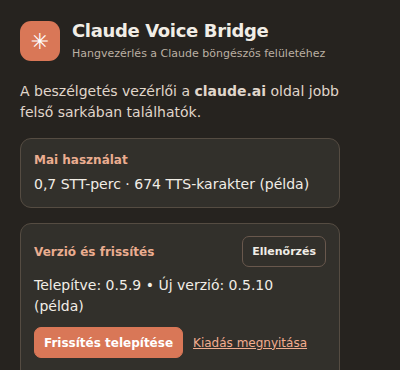
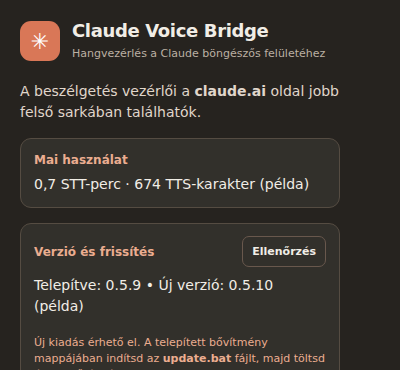
v0.5.14: remove broken native install UI, point to update.bat (#21)
* fix: explain manual local updater instead of unavailable Native Messaging

* fix: remove unusable native installer actions from popup

* docs: render new labeled HUD image [skip ci]

* fix: stop background attempts to run unavailable Native Messaging updater

* fix: v0.5.14 popup manual updater (manifest.json)

* fix: v0.5.14 popup manual updater (package.json)

* fix: v0.5.14 popup manual updater (scripts/pack.mjs)

* fix: v0.5.14 popup manual updater (tests/shared.test.cjs)

* fix: v0.5.14 popup manual updater (tests/vad.test.cjs)

* fix: v0.5.14 popup manual updater (tests/update-service.test.cjs)

* docs: release notes v0.5.14 native-free updater UI

---------

Changed region(s): [[0.06, 0.8622, 0.81, 0.9811]]

diff --git a/popup.html b/popup.html
@@ -17,10 +17,11 @@
 <section class="updates" aria-label="Frissítések">
   <div class="updates-heading"><h2>Verzió és frissítés</h2><button type="button" id="checkUpdate" class="small-button">Ellenőrzés</button></div>
   <p id="updateInfo" role="status" aria-live="polite">Frissítések keresése…</p>
-  <div id="updateActions" hidden><button type="button" id="installUpdate" class="small-button install">Frissítés telepítése</button>
-  <a id="releaseLink" href="https://github.com/sanchomuzax/Claude-voice-bridge-Chrome-extension/releases/latest" target="_blank" rel="noopener noreferrer">Kiadás megnyitása</a></div>
-  <label class="auto-update"><input id="autoInstall" type="checkbox"> Automatikus telepítés (Windows, külön telepített segédprogrammal)</label>
-  <p class="update-hint">Edge/Chrome: a telepítő segédprogramot külön kell beállítani. Androidon értesítés és letöltési link működik.</p>
+  <div id="updateActions" hidden>
+    <p class="update-hint">Új kiadás érhető el. A telepített bővítmény mappájában indítsd az <strong>update.bat</strong> fájlt, majd töltsd újra a bővítményt.</p>
+    <a id="releaseLink" href="https://github.com/sanchomuzax/Claude-voice-bridge-Chrome-extension/releases/latest" target="_blank" rel="noopener noreferrer">Kiadás megnyitása</a>
+  </div>
+  <p class="update-hint">A frissítések ellenőrzése itt működik; a telepítés Edge/Chrome alatt a külön, helyben futó frissítővel történik. A böngésző nem indíthat helyi programot.</p>
 </section>
 <button type="button" id="open" class="settings-button"><svg viewBox="0 0 24 24" width="18" height="18" fill="none" stroke="currentColor" stroke-width="2" stroke-linecap="round" stroke-linejoin="round" aria-hidden="true" focusable="false"><path d="M9.37 4.76 L9.82 2.55 L14.18 2.55 L14.63 4.76 L15.25 5.02 L17.14 3.77 L20.23 6.86 L18.98 8.75 L19.24 9.37 L21.45 9.82 L21.45 14.18 L19.24 14.63 L18.98 15.25 L20.23 17.14 L17.14 20.23 L15.25 18.98 L14.63 19.24 L14.18 21.45 L9.82 21.45 L9.37 19.24 L8.75 18.98 L6.86 20.23 L3.77 17.14 L5.02 15.25 L4.76 14.63 L2.55 14.18 L2.55 9.82 L4.76 9.37 L5.02 8.75 L3.77 6.86 L6.86 3.77 L8.75 5.02 Z"/><circle cx="12" cy="12" r="3.05"/></svg><span>Beállítások megnyitása</span></button>
 </main>

diff --git a/popup.js b/popup.js
@@ -12,7 +12,6 @@ function call(type,extra={}){
 }
 async function showUpdate(state){
  const info=$("updateInfo"),actions=$("updateActions");
- $("autoInstall").checked=state.autoInstall;
  actions.hidden=!state.available;
  $("releaseLink").href=state.releaseUrl;
  const checked=state.checkedAt?new Date(state.checkedAt).toLocaleString("hu-HU"):"még nem volt ellenőrizve";
@@ -33,21 +32,6 @@ $("checkUpdate").addEventListener("click",async()=>{
  try{await showUpdate((await call("CHECK_UPDATE")).update);}
  catch(error){statusError(error);}
  finally{btn.disabled=false;}
-});
-$("installUpdate").addEventListener("click",async()=>{
- const btn=$("installUpdate");btn.disabled=true;
- $("updateInfo").textContent="Frissítés letöltése és ellenőrzése a Windows segédprogrammal…";
- try{
-   const result=await call("INSTALL_UPDATE");
-   $("updateInfo").textContent="Telepítve: "+result.version+". A bővítmény újratöltődik; a claude.ai lapját külön frissítsd.";
- }catch(error){statusError(error);}
- finally{btn.disabled=false;}
-});
-$("autoInstall").addEventListener("change",async()=>{
- const box=$("autoInstall");box.disabled=true;
- try{await showUpdate((await call("SET_AUTO_INSTALL",{enabled:box.checked})).update);}
- catch(error){box.checked=!box.checked;statusError(error);}
- finally{box.disabled=false;}
 });
 call("GET_STATUS").then(response=>{
  $("usage").textContent="Mai felhasználás: "+response.usage.minutes.toFixed(1)+" STT-perc, "+response.usage.chars+" TTS-karakter.";

diff --git a/background.js b/background.js
@@ -275,10 +275,6 @@ async function cvbCheckUpdate(){
       await chrome.storage.local.set({cvbAvailableUpdate:update,cvbCheckedAt:Date.now(),cvbUpdateError:""});
       const status=await cvbSavedStatus();
       await cvbRefreshBadge(status);
-      if(status.available&&status.autoInstall&&cvbActiveAudio===0)
-        void cvbInstallUpdate().catch(async error=>{
-          await chrome.storage.local.set({cvbUpdateError:String(error?.message||error).slice(0,250)});
-        });
       return status;
     }catch(error){
       await chrome.storage.local.set({cvbUpdateError:String(error?.message||error).slice(0,250),cvbCheckedAt:Date.now()});

diff --git a/.github/release-notes/v0.5.14.md b/.github/release-notes/v0.5.14.md
@@ -1,0 +1,6 @@
+# Claude Voice Bridge v0.5.14
+
+- A felület eltávolítja a céges Windows-gépeken nem működő Native Messaging telepítésgombot és automatikus telepítés kapcsolót.
+- Új kiadás esetén az `update.bat` helyi indítását javasolja, a GitHub-ellenőrzés és az UPD jelzés megmarad.
+- A háttérfolyamat többé nem próbál automatikusan Native Messaging hostot hívni a régi tárolt beállítás alapján.
+- Edge és Chrome alatt a felhasználó a saját telepítési mappájának `update.bat` fájlját indítja.
